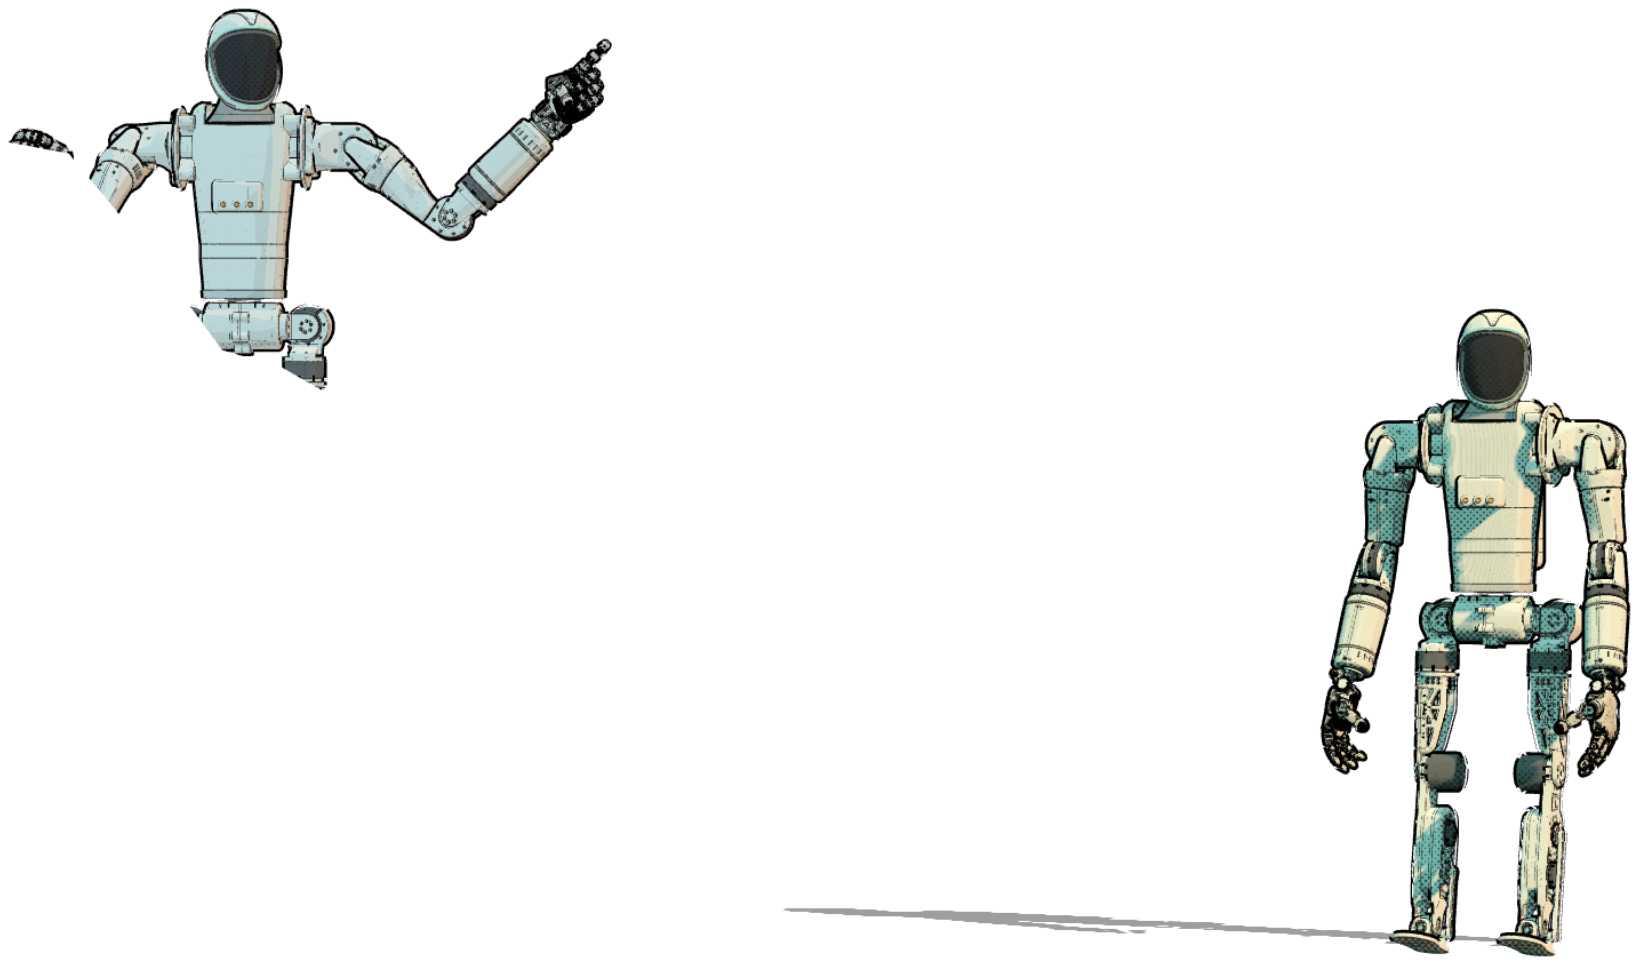
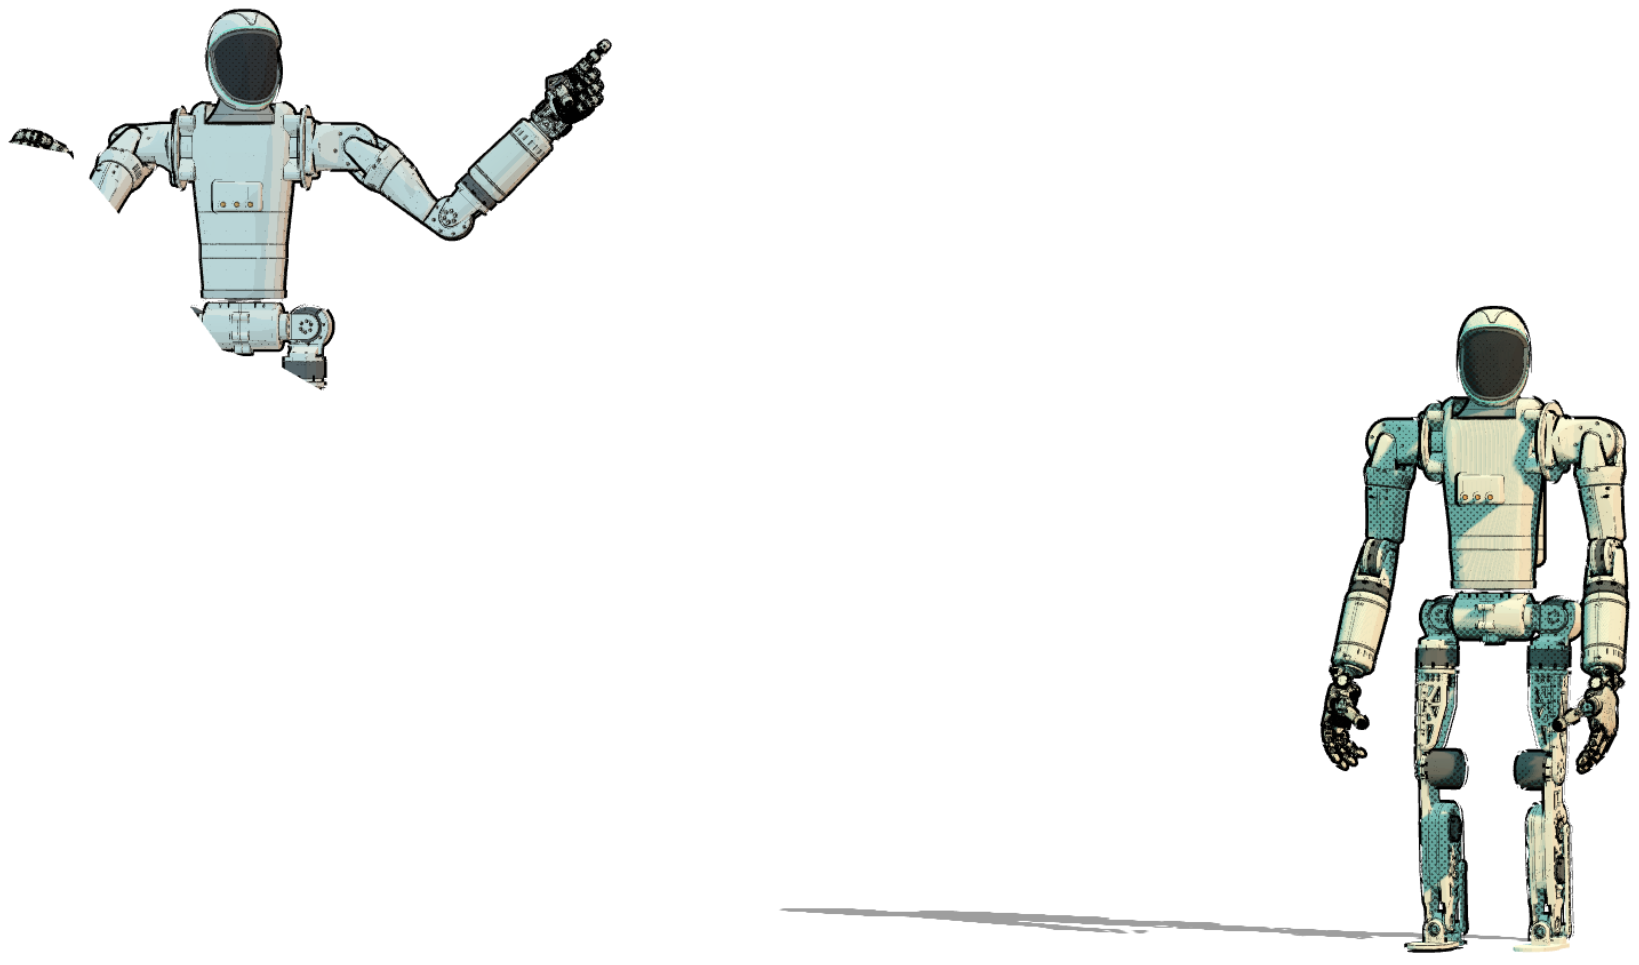
Pioneer: fix the knee direction so the feet stand flat
The full-detail CAD export's knees turn about +x, so their allowed range
swings the shin forward. The standing pose's slight knee bend therefore
bent backwards and tipped the feet ~14 degrees. Flip the knee axis in the
web model (and in the converter, so it survives a regenerate), cap the
leg poses at the knee's 65 degree limit, and re-render the still.

Changed region(s): [[0.809, 0.3109, 0.9957, 0.9948]]

diff --git a/components/Humanoid3D/moves.ts b/components/Humanoid3D/moves.ts
@@ -50,7 +50,9 @@ const COUNT: number[][] = [
 ];
 
 function legs(hip: number, side?: Side): Pose {
-    // Hip, knee and ankle pitch that keep the foot flat: ankle = hip + knee.
+    // Hip, knee and ankle pitch that keep the foot flat: ankle = hip + knee. The knee stops at 65°
+    // (-1.13 rad), so cap the bend there; past it the knee clamps and the feet tip.
+    hip = Math.min(hip, 0.56);
     const knee = -2 * hip;
     const out: Pose = {};
     for (const s of side ? [side] : (["l", "r"] as Side[])) {

diff --git a/scripts/urdf_to_web.py b/scripts/urdf_to_web.py
@@ -120,6 +120,11 @@ for j in root.findall("joint"):
             "upper": float(limit.get("upper")) if limit is not None else 0.0,
         }
     )
+# The full-detail export's knees turn about +x, so their only allowed direction (negative) swings the
+# shin forward: a backwards knee. Flip them to -x (as in the team's leg model) so negative is flexion.
+for j in joints:
+    if j["name"] in ("Knee_L", "Knee_R") and j["axis"][0] > 0:
+        j["axis"] = [-v for v in j["axis"]]
 links = [l.get("name") for l in root.findall("link")]
 children = {j["child"] for j in joints}
 rootlink = [l for l in links if l not in children][0]
